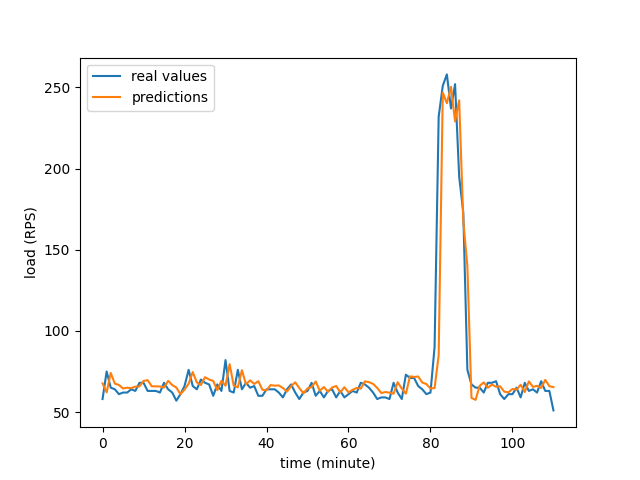
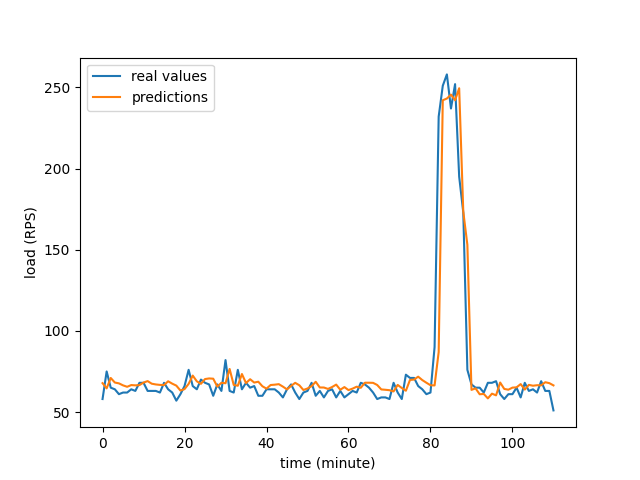
made runners

diff --git a/optimizer/adapter.py b/optimizer/adapter.py
@@ -334,16 +334,18 @@ class Monitoring:
 
 
 class Predictor:
-    def __init__(self, predictor_type) -> int:
+    def __init__(
+            self, predictor_type, backup_predictor:str = 'reactive') -> int:
         self.predictor_type = predictor_type
-        if predictor_type == "lstm":
-            self.model = load_model(LSTM_PATH)
-        elif predictor_type == "reactive":
-            self.model = lambda l: l[-1]
-        elif predictor_type == "max":
-            self.model = lambda l: max(l)
-        elif predictor_type == "avg":
-            self.model = lambda l: sum(l) / len(l)
+        self.backup_predictor = backup_predictor
+        predictors = {
+            'lstm': load_model(LSTM_PATH),
+            'reactive': lambda l: l[-1],
+            'max': lambda l: max(l),
+            'avg': lambda l: max(l) / len(l)
+        }
+        self.model = predictors[predictor_type]
+        self.backup_model = predictors[backup_predictor]
 
     def predict(self, series: List[int]):
         series_minutes = []
@@ -351,6 +353,11 @@ class Predictor:
         for i in range(0, len(series), step):
             series_minutes.append(max(series[i : i + step]))
         if self.predictor_type == "lstm":
+            if len(series_minutes) < LSTM_INPUT_SIZE:
+                logger.info(
+                    'not enough information for lstm'
+                    f' usting backup predictor {self.backup_predictor}')
+                return self.backup_model(series_minutes)
             model_intput = tf.convert_to_tensor(
                 np.array(series_minutes).reshape((-1, LSTM_INPUT_SIZE, 1)),
                 dtype=tf.float32,

diff --git a/experiments/runner/runner_scripts.py b/experiments/runner/runner_scripts.py
@@ -1,0 +1,26 @@
+import subprocess
+import os
+import sys
+import time
+
+# get an absolute path to the directory that contains parent files
+project_dir = os.path.dirname(__file__)
+sys.path.append(os.path.normpath(os.path.join(project_dir, "..", "..")))
+from experiments.utils.constants import (
+    PROJECT_PATH
+)
+
+runner_folder = os.path.join(PROJECT_PATH, 'experiments', 'runner')
+
+# Define the paths to the two Python script files
+script1_path = os.path.join(runner_folder, 'experiments_runner.py')
+time.sleep(10)
+script2_path = os.path.join(runner_folder, 'adaptation_runner.py')
+
+# Define a function to run each script in a separate subprocess
+def run_script(script_path):
+    subprocess.Popen(['python', script_path])
+
+# Start the two subprocesses
+run_script(script1_path)
+run_script(script2_path)
